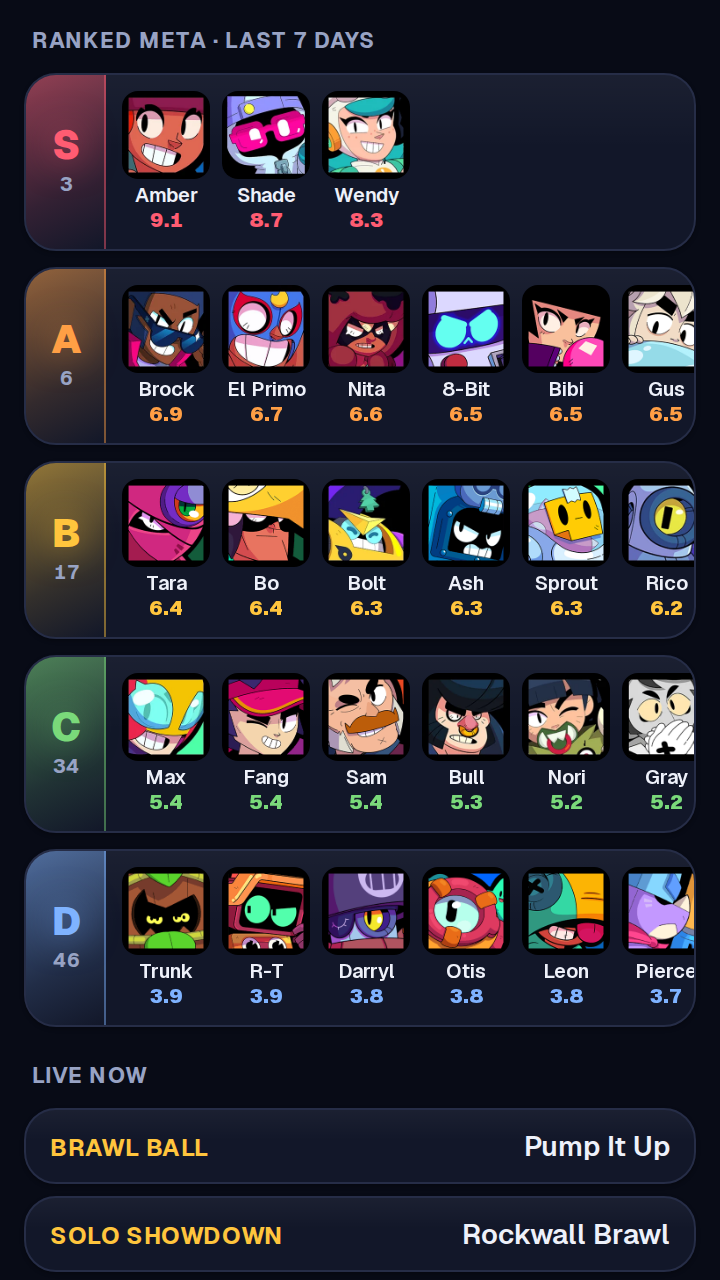
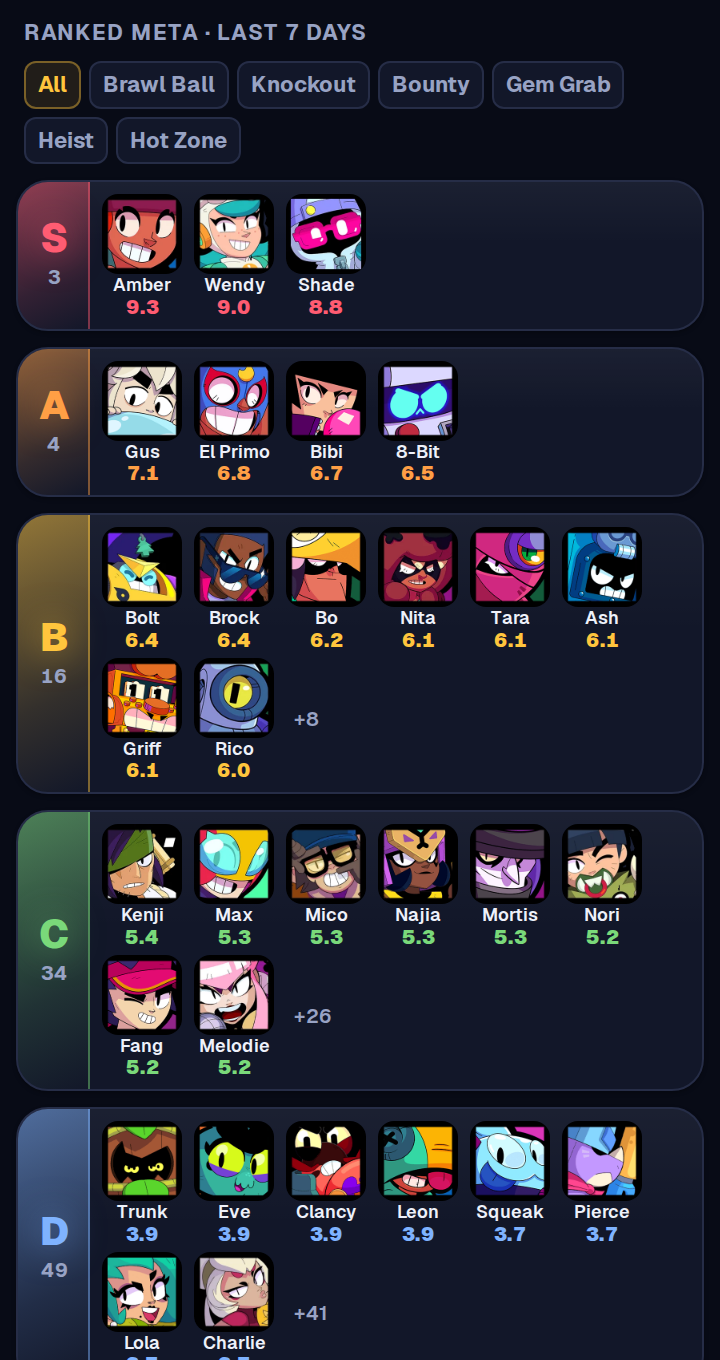
Refresh the panel screenshots, and add one of the builds
app-panel.png predated the mode filter and the build card, and still
showed the live-rotation strip that has since been removed — it was
advertising a version of the panel that no longer exists.

Both screens are shown now, because they answer different questions:
what the meta looks like, and what to actually run once you have picked.
Captured from the live route at 2x device scale, with the tap driven
through the page rather than staged.

diff --git a/src/app/bubble/page.tsx b/src/app/bubble/page.tsx
@@ -207,27 +207,46 @@ export default function BubblePage() {
           subtitle="The same data as the site, cut down to what a draft needs."
         />
 
-        <div className="grid items-start gap-8 lg:grid-cols-[0.8fr_1.2fr]">
-          <div className="mx-auto w-full max-w-[300px]">
+        {/* Both screens, because they answer different questions: what the
+            meta looks like, and what to actually run once you have picked. */}
+        <div className="grid gap-4 sm:grid-cols-2 lg:mx-auto lg:max-w-2xl">
+          <figure className="space-y-2">
             <Image
               src="/bubble/app-panel.png"
-              alt="The panel showing the Ranked tier list from S to D with meta scores, the mode filter across the top, and the live rotation below"
+              alt="The panel showing the mode filter across the top and the Ranked tier list from S to D, each brawler with its meta score"
               width={720}
-              height={1280}
+              height={1360}
               className="w-full rounded-2xl border border-border"
               loading="lazy"
             />
-          </div>
+            <figcaption className="text-center text-xs text-muted">
+              Every tier, filtered by mode
+            </figcaption>
+          </figure>
 
-          <div className="grid gap-4 sm:grid-cols-2 lg:grid-cols-1">
-            {FEATURES.map((f) => (
-              <article key={f.title} className="card p-5">
-                <f.icon className="size-6 text-brand" />
-                <h3 className="mt-3 font-bold">{f.title}</h3>
-                <p className="mt-2 text-sm leading-relaxed text-muted">{f.body}</p>
-              </article>
-            ))}
-          </div>
+          <figure className="space-y-2">
+            <Image
+              src="/bubble/app-build.png"
+              alt="The build card for Amber, listing her most-owned star power, gadget and two gears with the share of owners running each"
+              width={720}
+              height={1302}
+              className="w-full rounded-2xl border border-border"
+              loading="lazy"
+            />
+            <figcaption className="text-center text-xs text-muted">
+              Tap a brawler for its build
+            </figcaption>
+          </figure>
+        </div>
+
+        <div className="grid gap-4 sm:grid-cols-3">
+          {FEATURES.map((f) => (
+            <article key={f.title} className="card p-5">
+              <f.icon className="size-6 text-brand" />
+              <h3 className="mt-3 font-bold">{f.title}</h3>
+              <p className="mt-2 text-sm leading-relaxed text-muted">{f.body}</p>
+            </article>
+          ))}
         </div>
       </section>
 
